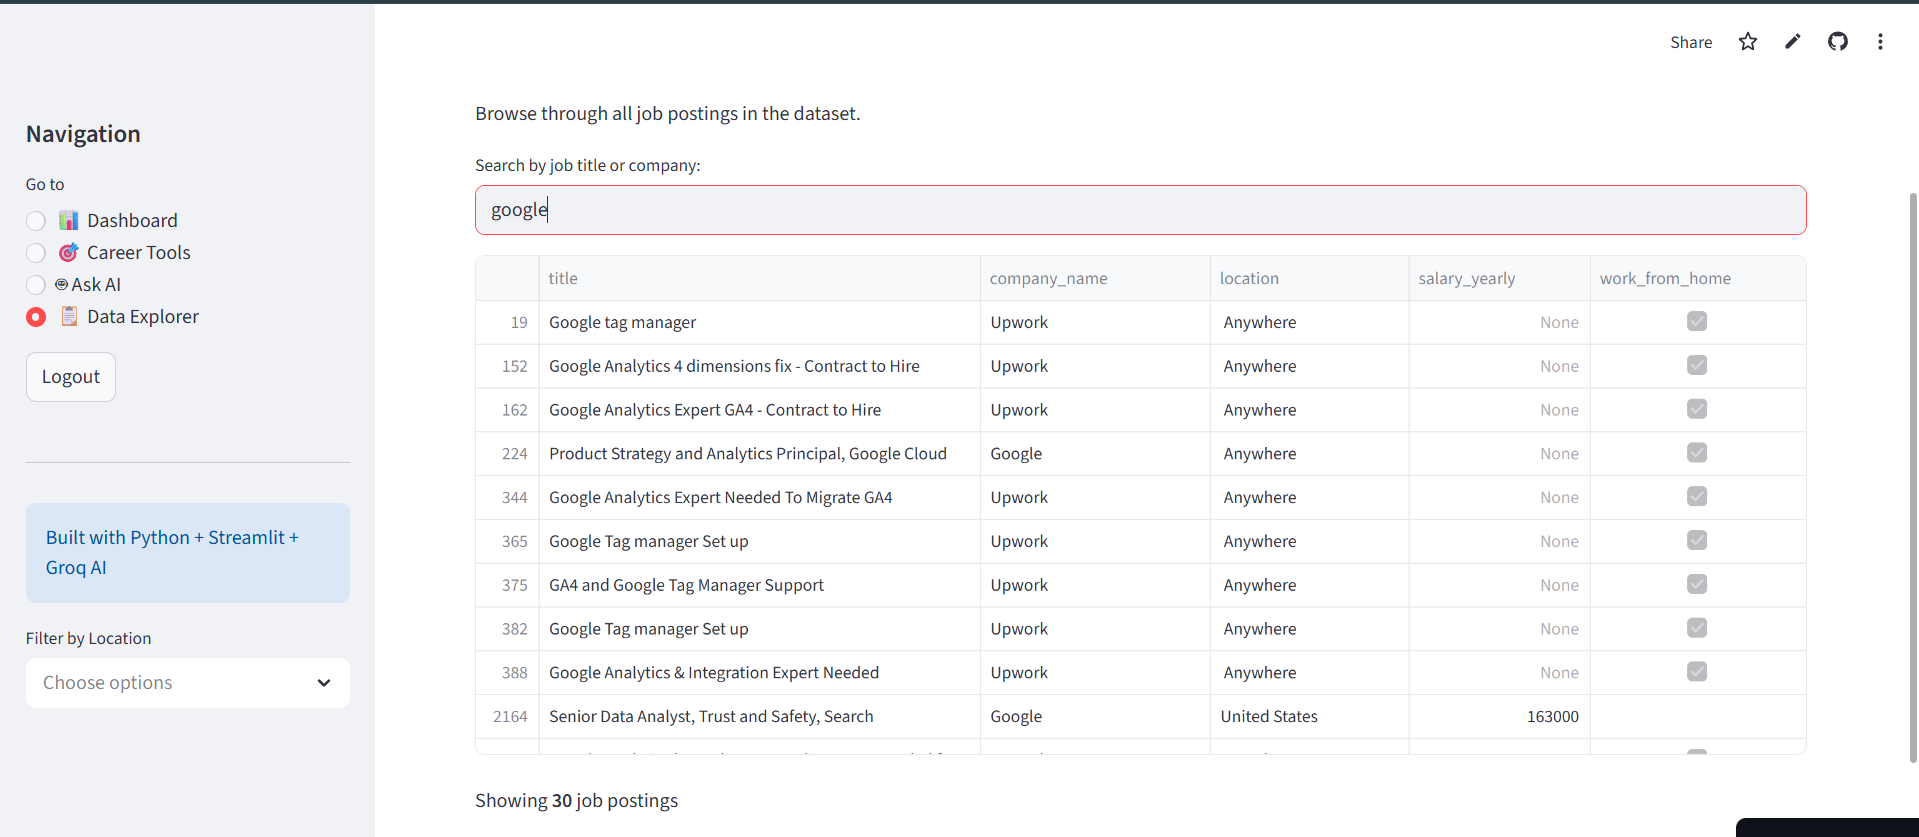
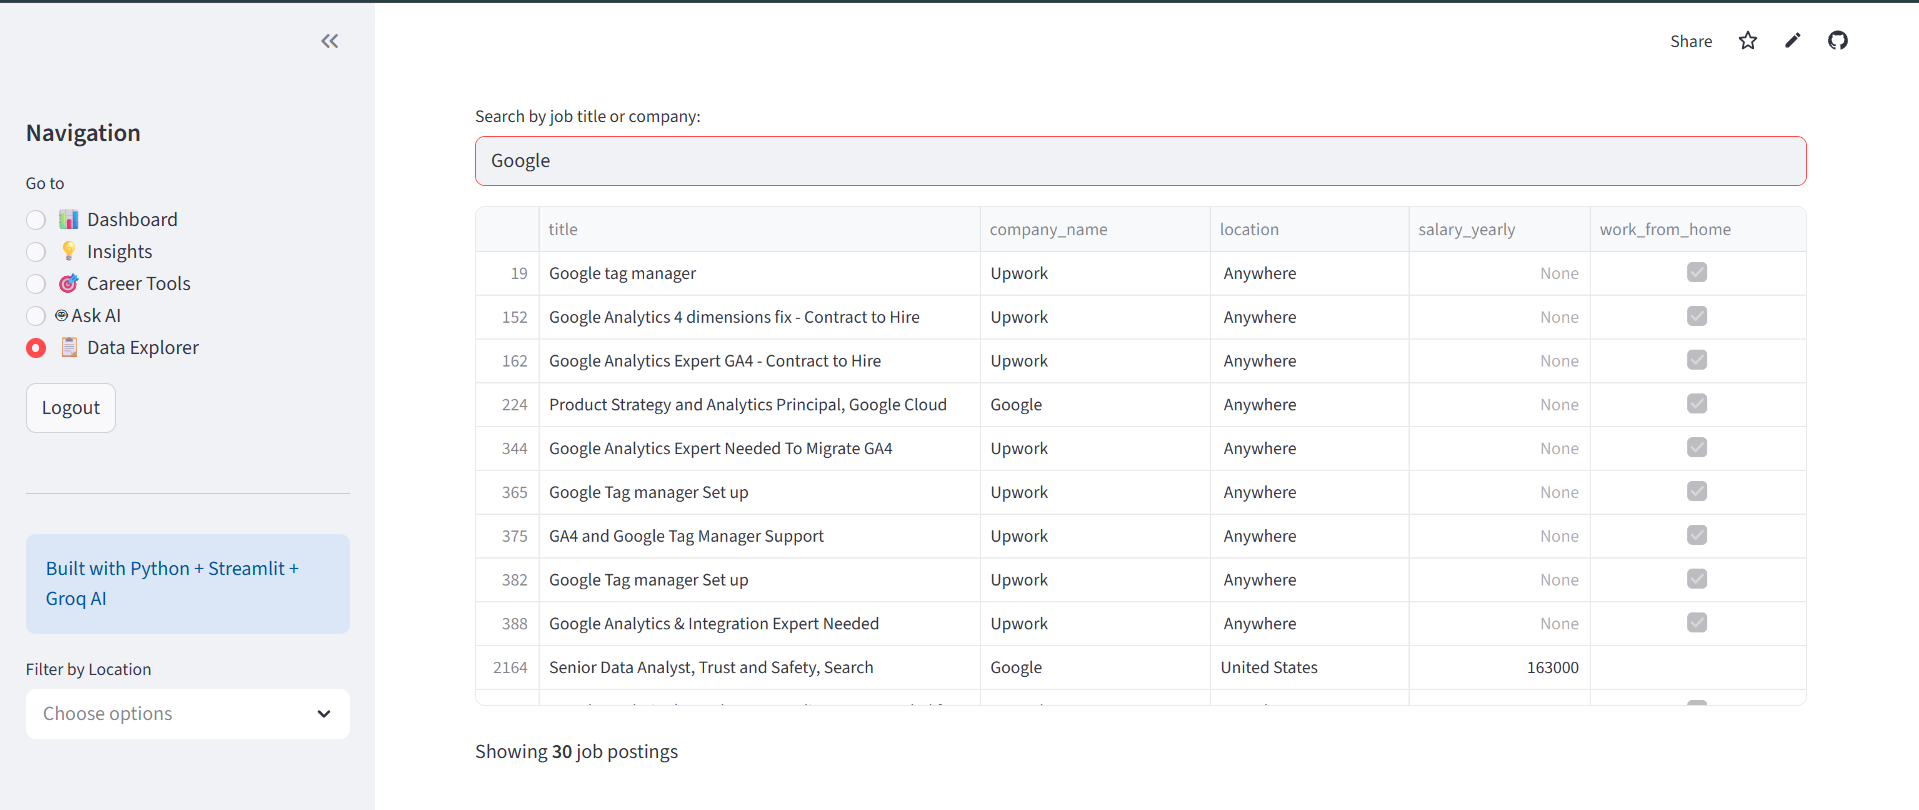
Update README with screenshots

diff --git a/README.md b/README.md
@@ -10,7 +10,8 @@ A professional data analytics web application that analyzes 61,953 real Data Ana
 ![Dashboard](dashboard.png)
 
 ### Resume Analyzer
-![Resume Analyzer](resume.png)
+![Resume Analyzer](resume1.png)
+![Resume Analyzer](resume2.png)
 
 ## Features
 - 🔐 **User Authentication** — Secure login and signup system
